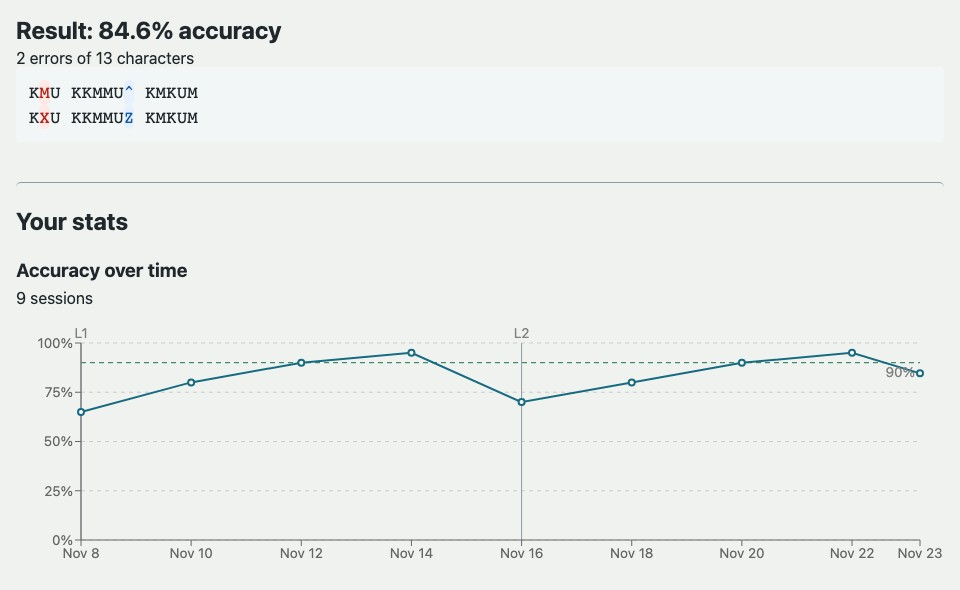
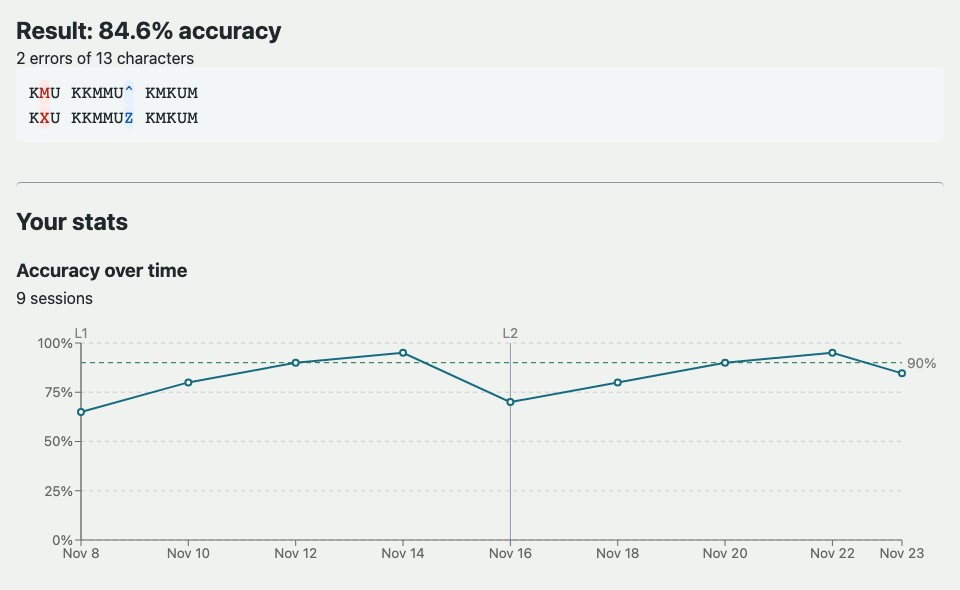
fix: keep CW charts and mobile stats readable (refs #81)

diff --git a/src/components/cw/CwStats.tsx b/src/components/cw/CwStats.tsx
@@ -149,11 +149,11 @@ export default function CwStats({ token, lesson, latestSessionId }: {
                   <p>{chartSessions.length} {chartSessions.length === 1 ? 'session' : 'sessions'}</p>
                   <div className="cw-chart" role="group" aria-label="Session accuracy">
                     <ResponsiveContainer width="100%" height="100%">
-                      <LineChart data={chartSessions} margin={{ top: 24, right: 24, bottom: 5, left: 5 }}>
+                      <LineChart data={chartSessions} margin={{ top: 24, right: 42, bottom: 5, left: 5 }}>
                         <CartesianGrid strokeDasharray="4 4" vertical={false} />
                         <XAxis dataKey="time" type="number" scale="time" domain={['dataMin', 'dataMax']} tickFormatter={dateTick} />
                         <YAxis domain={[0, 100]} tickFormatter={percentTick} />
-                        <ReferenceLine y={90} stroke="#167147" strokeDasharray="5 4" label={{ value: '90%', position: 'insideTopRight' }} />
+                        <ReferenceLine y={90} stroke="#167147" strokeDasharray="5 4" label={{ value: '90%', position: 'right' }} />
                         {chartSessions.filter(({ firstInLesson }) => firstInLesson).map((session) => (
                           <ReferenceLine
                             key={session.id}
@@ -185,9 +185,18 @@ export default function CwStats({ token, lesson, latestSessionId }: {
                     <table className="cw-stats-table">
                       <thead><tr>
                         <th scope="col">Letter</th>
-                        <th scope="col">Recent attempts</th>
-                        <th scope="col">Error rate</th>
-                        <th scope="col">Shown vs baseline</th>
+                        <th scope="col">
+                          <span className="cw-table-heading-full">Recent attempts</span>
+                          <span className="cw-table-heading-short">Seen</span>
+                        </th>
+                        <th scope="col">
+                          <span className="cw-table-heading-full">Error rate</span>
+                          <span className="cw-table-heading-short">Error %</span>
+                        </th>
+                        <th scope="col">
+                          <span className="cw-table-heading-full">Shown vs baseline</span>
+                          <span className="cw-table-heading-short">vs baseline</span>
+                        </th>
                       </tr></thead>
                       <tbody>
                         {letters.map((letter) => (

diff --git a/src/css/site.css b/src/css/site.css
@@ -785,6 +785,19 @@
   padding: .5rem;
   border-bottom: 1px solid #c5ced0;
 }
+.cw-table-heading-short { display: none; }
+
+@media (max-width: 600px) {
+  .cw-stats-table { table-layout: fixed; font-size: .8rem; }
+  .cw-stats-table th, .cw-stats-table td {
+    padding: .5rem .2rem;
+    overflow-wrap: anywhere;
+  }
+  .cw-stats-table th:last-child { width: 30%; }
+  .cw-table-heading-full { display: none; }
+  .cw-table-heading-short { display: inline; }
+}
+
 .cw-stats-table button {
   min-width: 2rem;
   padding: .25rem;

diff --git a/src/components/Utilities/portfolio_list.ts b/src/components/Utilities/portfolio_list.ts
@@ -4,7 +4,7 @@ export const portfolio_list = [
     "img": [
       {
         "url": "/Media/main/cw-trainer.jpg",
-        "alt": "CW Trainer playback settings and accuracy history"
+        "alt": "CW Trainer checked result with marked errors and accuracy history chart"
       }
     ],
     "link": "/cw",
